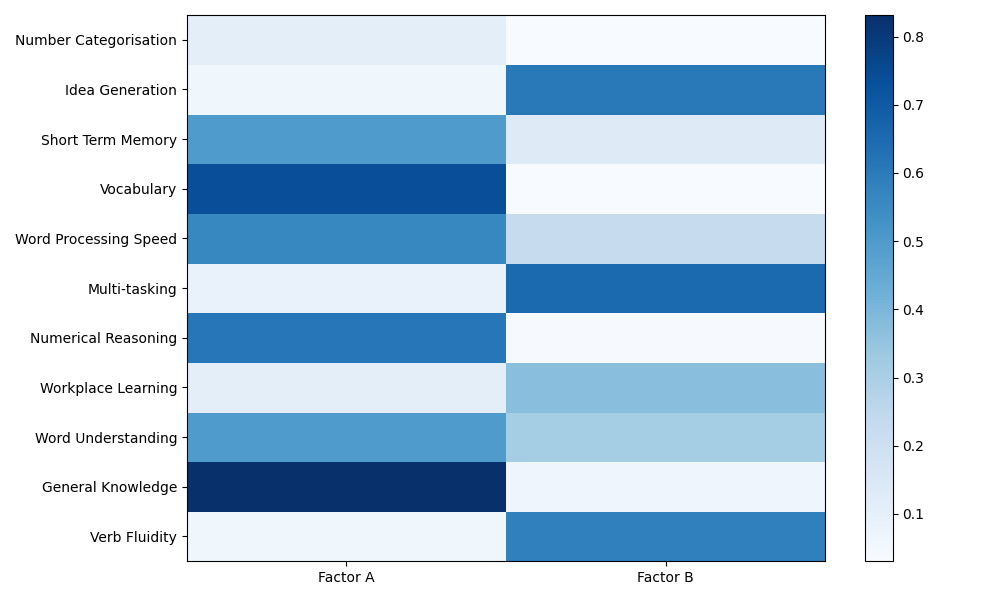
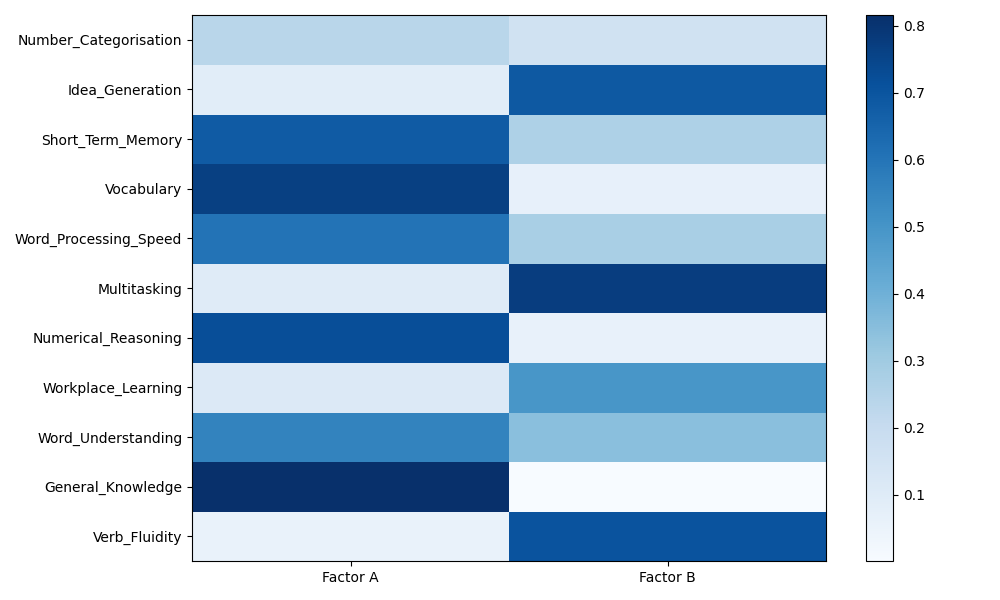
Revised structure

diff --git a/EFA/efa.py b/EFA/efa.py
@@ -1,6 +1,7 @@
 # Creation Date: 18/04/2022
 
 
+import contextlib
 import os
 import numpy
 import pandas
@@ -15,14 +16,9 @@ matplotlib.rcParams['figure.figsize'] = (10.0, 6.0)
 
 
 def prepare_log(datafile: str, log: str):
-    if log == None:
-        reference = f"EFA/{datafile}.txt"
-    else:
-        reference = f"EFA/{log}.txt"
-    try:
+    reference = f"EFA/{datafile}.txt" if log is None else f"EFA/{log}.txt"
+    with contextlib.suppress(OSError):
         os.remove(reference)
-    except OSError:
-        pass
     return open(reference, "a")
 
 
@@ -88,13 +84,14 @@ def plot_horn_results(filename: str, eigenvalues: list, average_paf_eigens: list
     matplotlib.pyplot.savefig(f"EFA/{filename}_parallel_analysis.png")
 
 
-def horn_parallel_analysis(data, filename: str, log: str, times: int = 100):
+def horn_parallel_analysis(data, filename: str, efa_method: str, log: str, 
+                           times: int = 100):
     ''' Purpose: Performs horn parallel analysis to determine topics. '''
     print(f"\n{'='*75}\nHorn parallel analysis\n", file=log)
     height, width = data.shape
-    paf = FactorAnalyzer(n_factors=11, method='principal', rotation=None)
+    paf = FactorAnalyzer(n_factors=11, method=efa_method, rotation=None)
     sum_paf_eigens = numpy.empty(width)
-    for _ in range(0, times):
+    for _ in range(times):
         paf.fit(numpy.random.normal(size=(height, width)))
         sum_paf_eigens = sum_paf_eigens + paf.get_eigenvalues()[0]
     average_paf_eigens = sum_paf_eigens / times
@@ -119,24 +116,23 @@ def plot_scree(proportional_variance: list, filename: str, width: int):
     matplotlib.pyplot.savefig(f"EFA/{filename}_variance_scree.png")
 
 
-def determine_topics(data, total_topics: int, filename: str, eisenvalue: bool,
-                     parallel: bool, log: str):
+def determine_topics(data, total_topics: int, efa_method: str, filename: str,
+                     eisenvalue: bool, parallel: bool, log: str):
     ''' Purpose: Analysis results to determine topic number. '''
     adequacy_test(data, log)
     _, width = data.shape
     paf = FactorAnalyzer(n_factors=total_topics,
-                         method='principal', rotation=None)
+                         method=efa_method, rotation=None)
     paf.fit(data)
     if eisenvalue:
         eigen_values = paf.get_eigenvalues()[0]
         print(f"\n{'='*75}\nEigenvalue analysis\n", file=log)
         print(f"Eigenvalues:\n{eigen_values}\n", file=log)
         suggested = next(x[0] for x in enumerate(eigen_values) if x[1] < 1)
-        print(
-            f"Eigenvalue suggested factors: {suggested}", file=log)
+        print(f"Eigenvalue suggested factors: {suggested}", file=log)
         plot_eisen_values(filename, eigen_values, width)
     if parallel:
-        horn_parallel_analysis(data, filename, log)
+        horn_parallel_analysis(data, filename, efa_method, log)
     variance = paf.get_factor_variance()
     print(f"Variance\n{variance[0]}\n", file=log)
     print(f"Proportional variance\n{variance[1]}\n", file=log)
@@ -150,7 +146,7 @@ def user_input():
         try:
             topic_count = int(input("Number of topics:"))
             break
-        except:
+        except Exception:
             print("Enter a valid integer!")
     return topic_count
 
@@ -171,10 +167,11 @@ def plot_paf_results(paf, filename: str, number_topics: int, headers: list):
 
 
 # Rotation methods: https://factor-analyzer.readthedocs.io/en/latest/
-def EFA_analysis(data, filename: str, number_topics: int, rotation_method: str, log: str):
+def EFA_analysis(data, filename: str, efa_method: str, number_topics: int,
+                 rotation_method: str, log: str):
     ''' Purpose: Complete Exploratory Factor Analysis. '''
     headers = list(data.columns.values)
-    paf = FactorAnalyzer()
+    paf = FactorAnalyzer(method=efa_method)
     paf.set_params(n_factors=number_topics, rotation=rotation_method)
     paf.fit(data)
     plot_paf_results(paf, filename, number_topics, headers)
@@ -183,20 +180,25 @@ def EFA_analysis(data, filename: str, number_topics: int, rotation_method: str, 
     print(f"Uniqueness Scores:\n{paf.get_uniquenesses()}\n", file=log)
 
 
-def EFA_pipeline(datafile: str, rotation_list: list = ["oblimin"], eisenvalue: bool = True,
-                 parallel: bool = True, drop_list: list = None, log: str = None):
+def EFA_pipeline(datafile: str, rotation_list: list = None, eisenvalue: bool = True,
+                 parallel: bool = True, drop_list: list = None, number_topics: int = None,
+                 efa_method: str = None, log: str = None):
     ''' Purpose: Completes PAF based EFA given provided arguments. '''
+    if rotation_list is None:
+        rotation_list = ["oblimin"]
+    if efa_method is None:
+        efa_method = "principal"
     LOG = prepare_log(datafile, log)
     data = load_CSV(datafile, drop_list)
     total_topics = len(list(data.columns.values))
-    determine_topics(data, total_topics,
+    determine_topics(data, total_topics, efa_method,
                      f"EFA_{datafile}", eisenvalue, parallel, LOG)
-    topic_count = user_input()
+    topic_count = user_input() if number_topics is None else number_topics
     print(f"\n{'='*75}\nEFA\n\nTopic Number: {topic_count}\n", file=LOG)
     for rotation in rotation_list:
         print(f"EFA Rotation: {rotation}\n", file=LOG)
         EFA_analysis(
-            data, f"EFA_{datafile}_{rotation}_{topic_count}", topic_count, rotation, LOG)
+            data, f"EFA_{datafile}_{rotation}_{topic_count}", efa_method, topic_count, rotation, LOG)
 
 
 EFA_pipeline("data", drop_list=["subno"], rotation_list=["oblimin", "promax"])
